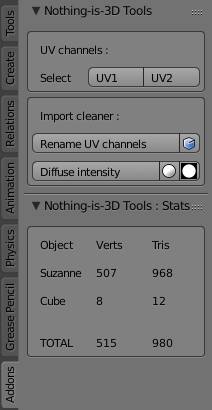
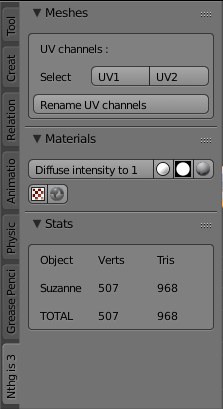
global reorganisation - changelog - readme

diff --git a/src/nothing-is-3D-tools.py b/src/nothing-is-3D-tools.py
@@ -1,14 +1,15 @@
 bl_info = {
     "name": "Nothing-is-3D tools",
-    "description": "Some scripts 3D realtime workflow oriented",
-    "author": "Vincent (Vinc3r) Lamy - Thanks for some example or piece of code from Wazou, Pistiwique, Alexander Milovsky, all Blender community",
-    "location": "3D view toolshelf - Nthg is 3D tab",
-    "category": "Mesh",	
+    "description": "Some scripts 3D realtime workflow oriented.",
+    "author": "Vincent (V!nc3r) Lamy, nothing-is-3d.com",
+    "location": "3D view toolshelf > Nthg-is-3D tab",
+    "category": "3D View",	
     "wiki_url": 'https://github.com/Vinc3r/BlenderScripts',
     "tracker_url": 'https://github.com/Vinc3r/BlenderScripts/issues',
     "version": (0, 2, 0),
 }
 
+#Thanks for some examples or pieces of code from Wazou, Pistiwique, Alexander Milovsky, all Blender community and of course Blender devs.
 import bpy
 
 print("++++ nothing-is-3D tools loaded ++++")
@@ -66,7 +67,7 @@ class BImtlSetWhite(bpy.types.Operator):
         return {'FINISHED'}
     
 class BImtlSetSpec(bpy.types.Operator):
-    """Set specular color to dark gray"""
+    """Set specular color to black"""
     bl_idname = "nothing3d.bi_mtl_set_spec"
     bl_label = "Set default spec color"
     
@@ -74,7 +75,7 @@ class BImtlSetSpec(bpy.types.Operator):
         for obj in context.selected_objects:
             if obj.type == 'MESH' and len(obj.data.materials) > 0 :
                 for mat in obj.data.materials:
-                    mat.specular_color = (.1,.1,.1)
+                    mat.specular_color = (0, 0, 0)
                     mat.specular_intensity = 1
         return {'FINISHED'}
     

diff --git a/README.md b/README.md
@@ -1,33 +1,45 @@
-# Nothing-is-3D tools
+# Nothing-is-3D Tools
+
 Some little scripts needed to work faster, often oriented 3D realtime workflow.
 
-Help to navigate between UV1 & 2, clean FBX import, and keep informed about object polycount.
+Download or update the addon from the [release page](https://github.com/Vinc3r/BlenderScripts/releases/) or though the *zip* above.
+[changelog](https://github.com/Vinc3r/BlenderScripts/blob/master/changelog.md)
 
-[download](https://raw.githubusercontent.com/Vinc3r/BlenderScripts/master/nothing-is-3D-tools.py) - [changelog](https://github.com/Vinc3r/BlenderScripts/blob/master/changelog.md) - you may want try the beta-but-stable version for now, check the [release page](https://github.com/Vinc3r/BlenderScripts/releases/) for that.
+![nothing-is-3d_tools_default](https://raw.githubusercontent.com/Vinc3r/BlenderScripts/master/_readmeAssets_/nothing-is-3d-tools_default.png)
+
+## Main Features
+
+- quickly switch between UV1 & UV2
+- clean FBX import
+- keep informed about objects polycount
 
 ## Installation
 
-* download [nothing-is-3D-tools.py](https://raw.githubusercontent.com/Vinc3r/BlenderScripts/master/nothing-is-3D-tools.py)
-* remove previous installation if needed (search  _nothing_ to easily find it)
-* install by using _Install from File..._ in _Blender User Preferences_ > _Add-ons_ tab
+* download [nothing-is-3d tools](https://github.com/Vinc3r/BlenderScripts/releases/)
+* remove previous installation if needed (search *nothing* to easily find it)
+* install by using *Install from File...* in *Blender User Preferences* > *Add-ons* tab
 
-Tools will be placed on Tools panel of 3DView, in _Addons_ tab.
-
-![nothing-is-3d_tools_default](https://raw.githubusercontent.com/Vinc3r/BlenderScripts/master/README-assets/nothing-is-3d-tools_default.png)
+Tools will be placed on Tools panel of 3DView, in *Nthg is 3D* tab.
 
 ## Usage
 
-### Nothing-is-3D Tools
+By default, tools are apply on current selection.
+
+### *Meshes* part
 
 #### UV channels
 
-- _Select_ allow to quickly switch active UV. Usefull when you're in Material shading viewport, or when set render list in Baketool plugin. Apply on selection.
+- **Select** allow to quickly switch active UV. Usefull when you're in Material shading viewport, or when set render list in Baketool plugin.
+- **Rename UV channels** rename UV1 to *UVMap* and UV2 to*UV2*. Usefull when importing meshes from other 3D softwares.
 
-#### Import cleaner :
+### *Materials* part
 
-- _Rename UV channels_ rename UV1 to _UVMap_ and UV2 to _UV2_. Usefull when import meshes from other 3D softwares. Next button disable auto-smoothing. Apply on selection,
-- in Blender Render, _Diffuse intensity_ set diffuse intensity to 1, next button set color to white, next reset alpha params. Apply on selection.
+#### Blender Render
 
-### Nothing-is-3D Tools : Stats
+- **Diffuse intensity** set diffuse intensity to 1, next button set color to white, next reset alpha params, next set specular to black and its intensity to 1
+- The two buttons below helps to set diffuse or ambient textures as TexFace (user have to set himself viewport shading to *Textured Solid*)
 
-- list meshes in selection, show vertices & triangles number. Add **±** when nGons are found.
+### *Stats* part
+
+- show **polycount** as vertices & triangles. Add **±** when nGons are found.
+- clicking on the object name make him active.

diff --git a/changelog.md b/changelog.md
@@ -2,8 +2,15 @@
 
 2018-03-18
 
+### Misc
+
 - fix some bugs when selecting UV2 which doesn't exist
-- add diffuse/lightmap to texface functionnality (Blender Render)
+- stats panel: clicking on the object name make it the active one
+
+### Blender Render
+
+- add *diffuse/lightmap to texface* functionnality
+- add *set spec to black*
 
 ## v0.0.2
 
